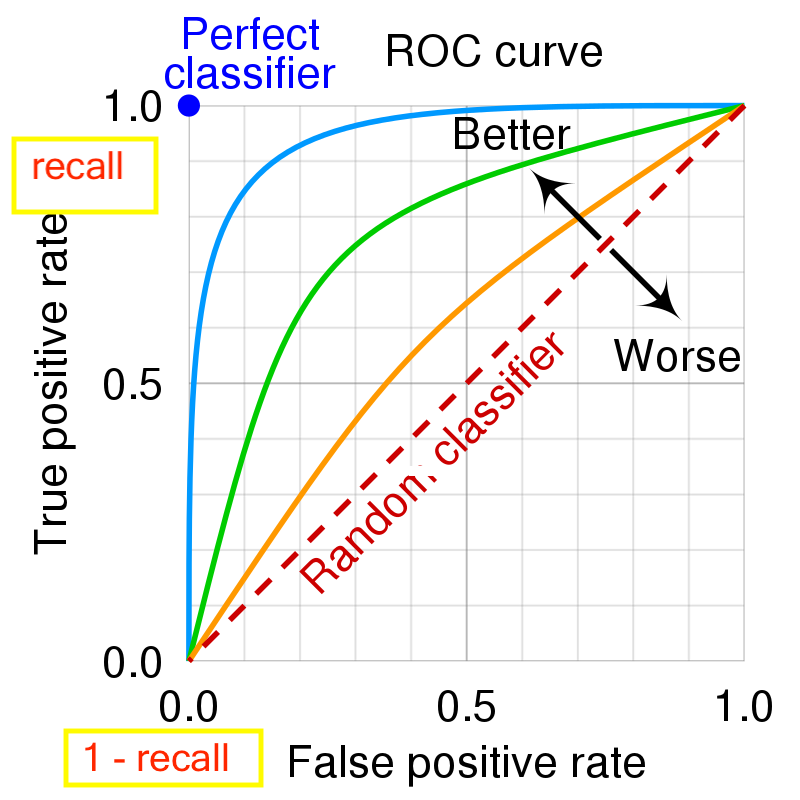
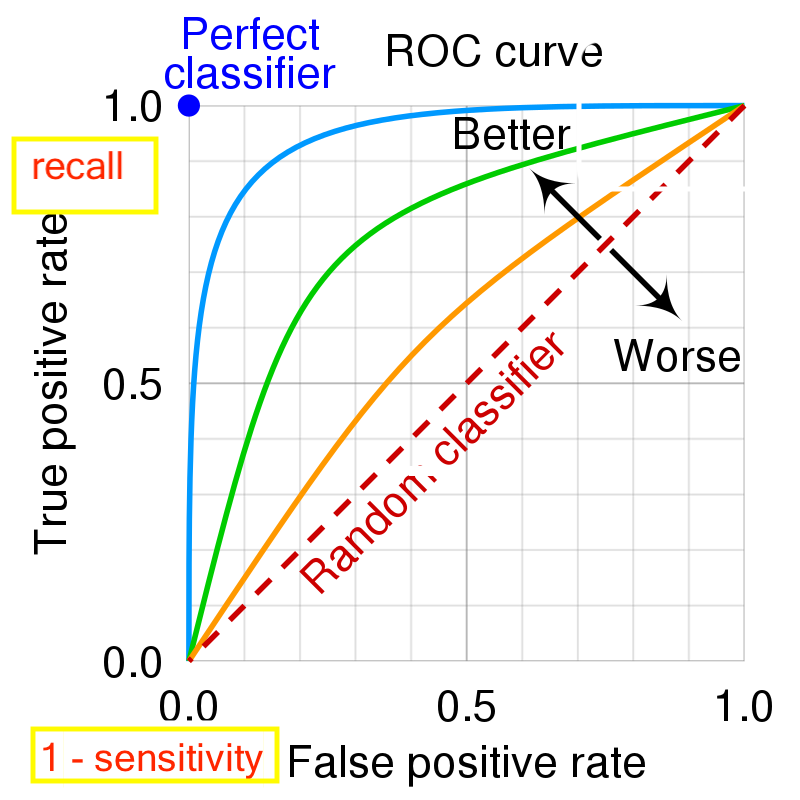
party roc

Changed region(s): [[0.0312, 0.9062, 0.375, 1.0]]

diff --git a/ds/ml-conceptual.md b/ds/ml-conceptual.md
@@ -88,17 +88,21 @@
 * what is F1?
   * harmonic mean of precision and recall
 * what is precision?
-  * number of true positives / true positives + false positives
+  * true positives / true positives + false positives
   * (divide by first ROW)
 * what is recall?
-  * number of true positives / true positive + false negative
+  * true positives / true positive + false negative
+  * true positive rate
   * (divide by first COL)
+* what is specificity?
+  * true negatives / true negative + false positives
+  * true negative rate
 * what is a residual?
   * difference between a predicted value and a true value
 * what is the ROC curve
   * receiver operating curve
-  * plot recall on y axis, plot 1 - recall as x axis
-    * note 1 - recall = "false positive rate"
+  * plot recall on y axis, plot 1 - specificity as x axis
+    * note 1 - specificity = "false positive rate"
   * the ROC curve is better the more area that is underneath 
     * ie we want it bending up and to the left
 
@@ -753,7 +757,9 @@ return bool(p_val, sig)
   * masking
   * next sentence prediction
   * attention
+    * [todo]
   * transformers
+    * [todo]
   * fine-tuning
   * open source
 * why is GPT so good?
@@ -766,7 +772,6 @@ return bool(p_val, sig)
       * transform data to a new coordinate system
       * axis 1 = greatest variance (by projection), axis 2 = second greatest, etc.
       * each of these levels is a "principal component"
-      * 
     * LSA
       * matrix decomposition
       * removing unneeded columns
